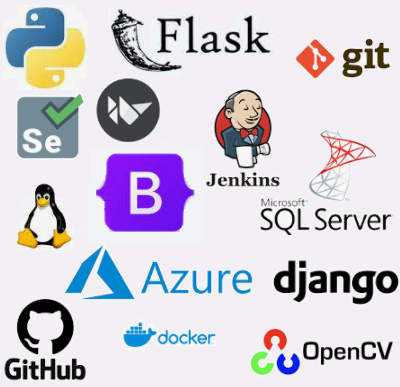
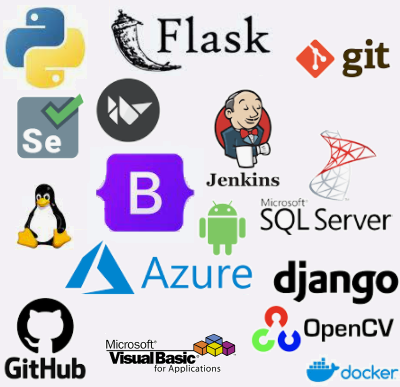
ajuste no carrosel

diff --git a/index.html b/index.html
@@ -109,91 +109,177 @@
 
     <div class='container-lg text-light'>
 
-        <h1 class='text-warning'>Formação e Habilidades</h1>
+        
+        <h1 class='text-warning'>Formação</h1>
         <div class='container-sm'>
-            <h4>Formação</h4>
-            <p>Engenheiro de Controle e Automação - Universidade Estácio de Sá (2018)</p>
+            <p>Engenheiro de Controle e Automação - Universidade Estácio de Sá (2018)</p>        
+        </div>
 
-            <!-- Carrossel de Habilidades -->
-            <h4>Habilidades</h4>
-            <div id="carouselExampleCaptions" class="carousel slide" data-bs-ride="carousel">
+        <!-- Carrossel de Habilidades -->
+        <h1 class='text-warning'>Habilidades</h1>
 
-                <div class="carousel-indicators">
-                  <button type="button" data-bs-target="#carouselExampleCaptions" data-bs-slide-to="0" class="active" aria-current="true" aria-label="Slide 1"></button>
-                  <button type="button" data-bs-target="#carouselExampleCaptions" data-bs-slide-to="1" aria-label="Slide 2"></button>
-                  <button type="button" data-bs-target="#carouselExampleCaptions" data-bs-slide-to="2" aria-label="Slide 3"></button>
-                </div>
+        <div class='container-sm'>
 
+            <div id="carouselExampleControls" class="carousel slide" data-bs-ride="carousel">
                 <div class="carousel-inner">
 
-                  <div class="carousel-item active">
-                    <table>
-                        <tr>
-                            <img src="imgs/blank.png" class="d-block w-100" alt="...">
-                        </tr>
-                        <tr>
-                            <div class="text-dark carousel-caption d-none d-md-block">
-                                <h5>Tecnologia</h5>
-                                <p>Some representative placeholder content for the first slide.</p>
-                              </div>
-                        </tr>
-                    </table>
+                    <div class="carousel-item active">
+                        <img src="imgs/blank.png" class="d-block w-60 centralizar" alt="...">
+                        <div class='container-sm d-block'>
+                            <br>
+                            <div class='row centralizar_texto'><h3>Programação e Cloud Computing</h3></div>
+                            <br>
+                            <div class='row centralizar_texto'>
+                                <div class='col'>Python 3</div>
+                                <div class='col'>Flask</div>
+                                <div class='col'>Django</div>
+                                <div class='col'>Git</div>
+                                <div class='col'>Github</div>
+                            </div>
+                            <br>
+                            <div class='row centralizar_texto'>
+                                <div class='col'>Docker</div>
+                                <div class='col'>Linux</div>
+                                <div class='col'>Azure</div>
+                                <div class='col'>Kivy</div>
+                                <div class='col'>OpenCV</div>
+                            </div>
+                            <br>
+                            <div class='row centralizar_texto'>
+                                <div class='col'>Selenium</div>
+                                <div class='col'>Jenkins</div>
+                                <div class='col'>VBA</div>
+                                <div class='col'>SQL Server</div>
+                                <div class='col'>Bootstrap</div>
+                            </div>
+                        </div>
+                    </div>
+
+                    <div class="carousel-item">
+
+                        <img src="imgs/blank2.png" class="d-block w-60 centralizar" alt="...">
+                        <div class='container-sm d-block'>
+                            <br>
+                            <div class='row centralizar_texto'><h3>Análise de dados</h3></div>
+                            <br>
+                            <div class='row centralizar_texto'>
+                                <div class='col'>Excel</div>
+                                <div class='col'>Access</div>
+                                <div class='col'>SQL Server</div>
+                                <div class='col'>Pandas</div>
+                                <div class='col'>Tableau</div>
+                            </div>
+                            <br>
+                            <div class='row centralizar_texto'>
+                                <div class='col'>Power BI</div>
+                                <div class='col'>Pytorch</div>
+                                <div class='col'>Tensor Flow</div>
+                                <div class='col'>ETL</div>
+                                <div class='col'>Tableau Prep Builder</div>
+                            </div>
+                            <!-- <div class='row centralizar_texto'>
+                                <div class='col'>Selenium Webdriver</div>
+                                <div class='col'>Jenkins</div>
+                                <div class='col'>VBA</div>
+                                <div class='col'>SQL Server</div>
+                                <div class='col'>Bootstrap</div>
+                            </div> -->
+                        </div>
+
+                    </div>
+
+                    <div class="carousel-item">
+
+                        <img src="imgs/blank3.png" class="d-block w-60 centralizar" alt="...">
+                        <div class='container-sm d-block'>
+                            <br>
+                            <div class='row centralizar_texto'><h3>Processos e Projetos</h3></div>
+                            <br>
+                            <div class='row centralizar_texto'>
+                                <div class='col'>Mapeamento de Processos</div>
+                                <div class='col'>BIZAGI</div>
+                                <div class='col'>Kanban</div>
+                                <div class='col'>Scrum</div>
+                                <div class='col'>Lean</div>
+                            </div>
+                            <br>
+                            <div class='row centralizar_texto'>
+                                <div class='col'>Resolução de problemas</div>
+                                <div class='col'>Automação de Processos</div>
+                                <div class='col'>RPA</div>
+                                <div class='col'>Jira</div>
+                                <div class='col'>Trello</div>
+                            </div>
+                            <!-- <div class='row centralizar_texto'>
+                                <div class='col'>Selenium Webdriver</div>
+                                <div class='col'>Jenkins</div>
+                                <div class='col'>VBA</div>
+                                <div class='col'>SQL Server</div>
+                                <div class='col'>Bootstrap</div>
+                            </div> -->
+                        </div>
+
+                    </div>
+
+                    <div class="carousel-item">
+
+                        <img src="imgs/blank4.png" class="d-block w-60 centralizar" alt="...">
+                        <div class='container-sm d-block'>
+                            <br>
+                            <div class='row centralizar_texto'><h3>IoT - Internet das Coisas</h3></div>
+                            <br>
+                            <div class='row centralizar_texto'>
+                                <div class='col'>Arduino</div>
+                                <div class='col'>Raspberry</div>
+                                <div class='col'>Segurança Eletrônica</div>
+                                <div class='col'>CLP</div>
+                                <div class='col'>Instalações Elétricas</div>
+                            </div>
+                            <br>
+                            <div class='row centralizar_texto'>
+                                <div class='col'>Pneumática</div>
+                                <div class='col'>Hidráulica</div>
+                                <div class='col'>Sensorização</div>
+                                <div class='col'>Sistemas Embarcados</div>
+                                <div class='col'>Apps Android</div>
+                            </div>
+                            <!-- <div class='row centralizar_texto'>
+                                <div class='col'>Selenium Webdriver</div>
+                                <div class='col'>Jenkins</div>
+                                <div class='col'>VBA</div>
+                                <div class='col'>SQL Server</div>
+                                <div class='col'>Bootstrap</div>
+                            </div> -->
+                        </div>
+
+                    </div>
+
+
+
                 </div>
 
-                  <div class="carousel-item">
-                    <img src="imgs/python 2.png" class="d-block w-100" alt="...">
-                    <div class="carousel-caption d-none d-md-block">
-                      <h5>Soft Skills</h5>
-                      <p>Some representative placeholder content for the second slide.</p>
-                    </div>
-                  </div>
-
-                  <div class="carousel-item">
-                    <img src="imgs/raspberry.png" class="d-block w-100" alt="...">
-                    <div class="carousel-caption d-none d-md-block">
-                      <h5>Análise</h5>
-                      <p>Some representative placeholder content for the third slide.</p>
-                    </div>
-                  </div>
-
-                  <!-- <div class="carousel-item">
-                    <img src="imgs/raspberry.png" class="d-block w-100" alt="...">
-                    <div class="carousel-caption d-none d-md-block">
-                      <h5>IoT</h5>
-                      <p>Some representative placeholder content for the third slide.</p>
-                    </div>
-                  </div> -->
-
-                </div>
-                <button class="carousel-control-prev" type="button" data-bs-target="#carouselExampleCaptions" data-bs-slide="prev">
+                <button class="carousel-control-prev" type="button" data-bs-target="#carouselExampleControls" data-bs-slide="prev">
                   <span class="carousel-control-prev-icon" aria-hidden="true"></span>
-                  <span class="visually-hidden">Anterior</span>
+                  <span class="visually-hidden">Previous</span>
                 </button>
-                <button class="carousel-control-next" type="button" data-bs-target="#carouselExampleCaptions" data-bs-slide="next">
+                <button class="carousel-control-next" type="button" data-bs-target="#carouselExampleControls" data-bs-slide="next">
                   <span class="carousel-control-next-icon" aria-hidden="true"></span>
-                  <span class="visually-hidden">Próxima</span>
+                  <span class="visually-hidden">Next</span>
                 </button>
-              </div>
-
-        <script>
-            $('.carousel').carousel({
-            interval: 2000
-            })
-        </script>
-
+            </div>
         </div>
+
         <br>
 
         <!-- TimeLine -->
+        <h1 class='text-warning'>Experiencia</h1>
         <div class="container">
             <div class="row">
                 <div class="col-md-12">
                     <div class="main-timeline">
-                        <h1>Experiencia</h1>
-
                         <div class="timeline">
                             <a href="#" class="timeline-content">
-                                <div class="timeline-year">Nov 2019</div>
+                                <div class="timeline-year">Out 2019</div>
                                 <div class="timeline-icon"><i class="fa fa-globe"></i></div>
                                 <div class="inner-content">
                                     <h3 class="title">Analista de Processos Pleno | DASA</h3>
@@ -206,7 +292,7 @@
 
                         <div class="timeline">
                             <a href="#" class="timeline-content">
-                                <div class="timeline-year">Março 2018</div>
+                                <div class="timeline-year">Abr 2019</div>
                                 <div class="timeline-icon"><i class="fa fa-rocket"></i></div>
                                 <div class="inner-content">
                                     <h3 class="title">Analista de Planejamento e Performance Jr. | DASA</h3>
@@ -219,7 +305,7 @@
 
                         <div class="timeline">
                             <a href="#" class="timeline-content">
-                                <div class="timeline-year">Julho 2018</div>
+                                <div class="timeline-year">Jul 2018</div>
                                 <div class="timeline-icon"><i class="fa fa-rocket"></i></div>
                                 <div class="inner-content">
                                     <h3 class="title">Analista Financeiro | DASA</h3>
@@ -313,7 +399,7 @@
 
     <!-- Javascript Carrosel -->
     <script>
-        var myCarousel = document.querySelector('#carouselExampleCaptions')
+        var myCarousel = document.querySelector('#carouselExampleControls')
         var carousel = new bootstrap.Carousel(myCarousel, {
             interval: 1000,
             wrap: false,

diff --git a/timeline.css b/timeline.css
@@ -7,7 +7,7 @@
     display: block;
     clear: both;
 }
-.main-timeline:before{
+/* .main-timeline:before{
     content: '';
     border-left: 7px dotted #474050;
     height: 100%;
@@ -17,7 +17,7 @@
     left: 50%;
     top: 0;
     z-index: 1;
-}
+} */
 .main-timeline .timeline{ margin: 0 0 30px 0; }
 .main-timeline .timeline-content{
     color: #999;
@@ -58,7 +58,7 @@
     z-index: 1;
 }
 .main-timeline .inner-content{ padding: 20px; }
-.main-timeline .title{
+.main-timeline .title{ 
     color: #474050;
     font-size: 20px;
     font-weight: 700;

diff --git a/styles.css b/styles.css
@@ -1,3 +1,14 @@
+.centralizar {
+  /* border-radius: 25%; */
+  margin-left: auto;
+  margin-right: auto
+}
+
+.centralizar_texto {
+  text-align: center;
+}
+
+
 .foto {
     border-radius: 50%;
     width:150px;
@@ -27,7 +38,7 @@
   height: min-content;
 }
 
-.carousel-center {
+  .carousel-center {
     margin: 0;
     position: absolute;
     top: 50%;
